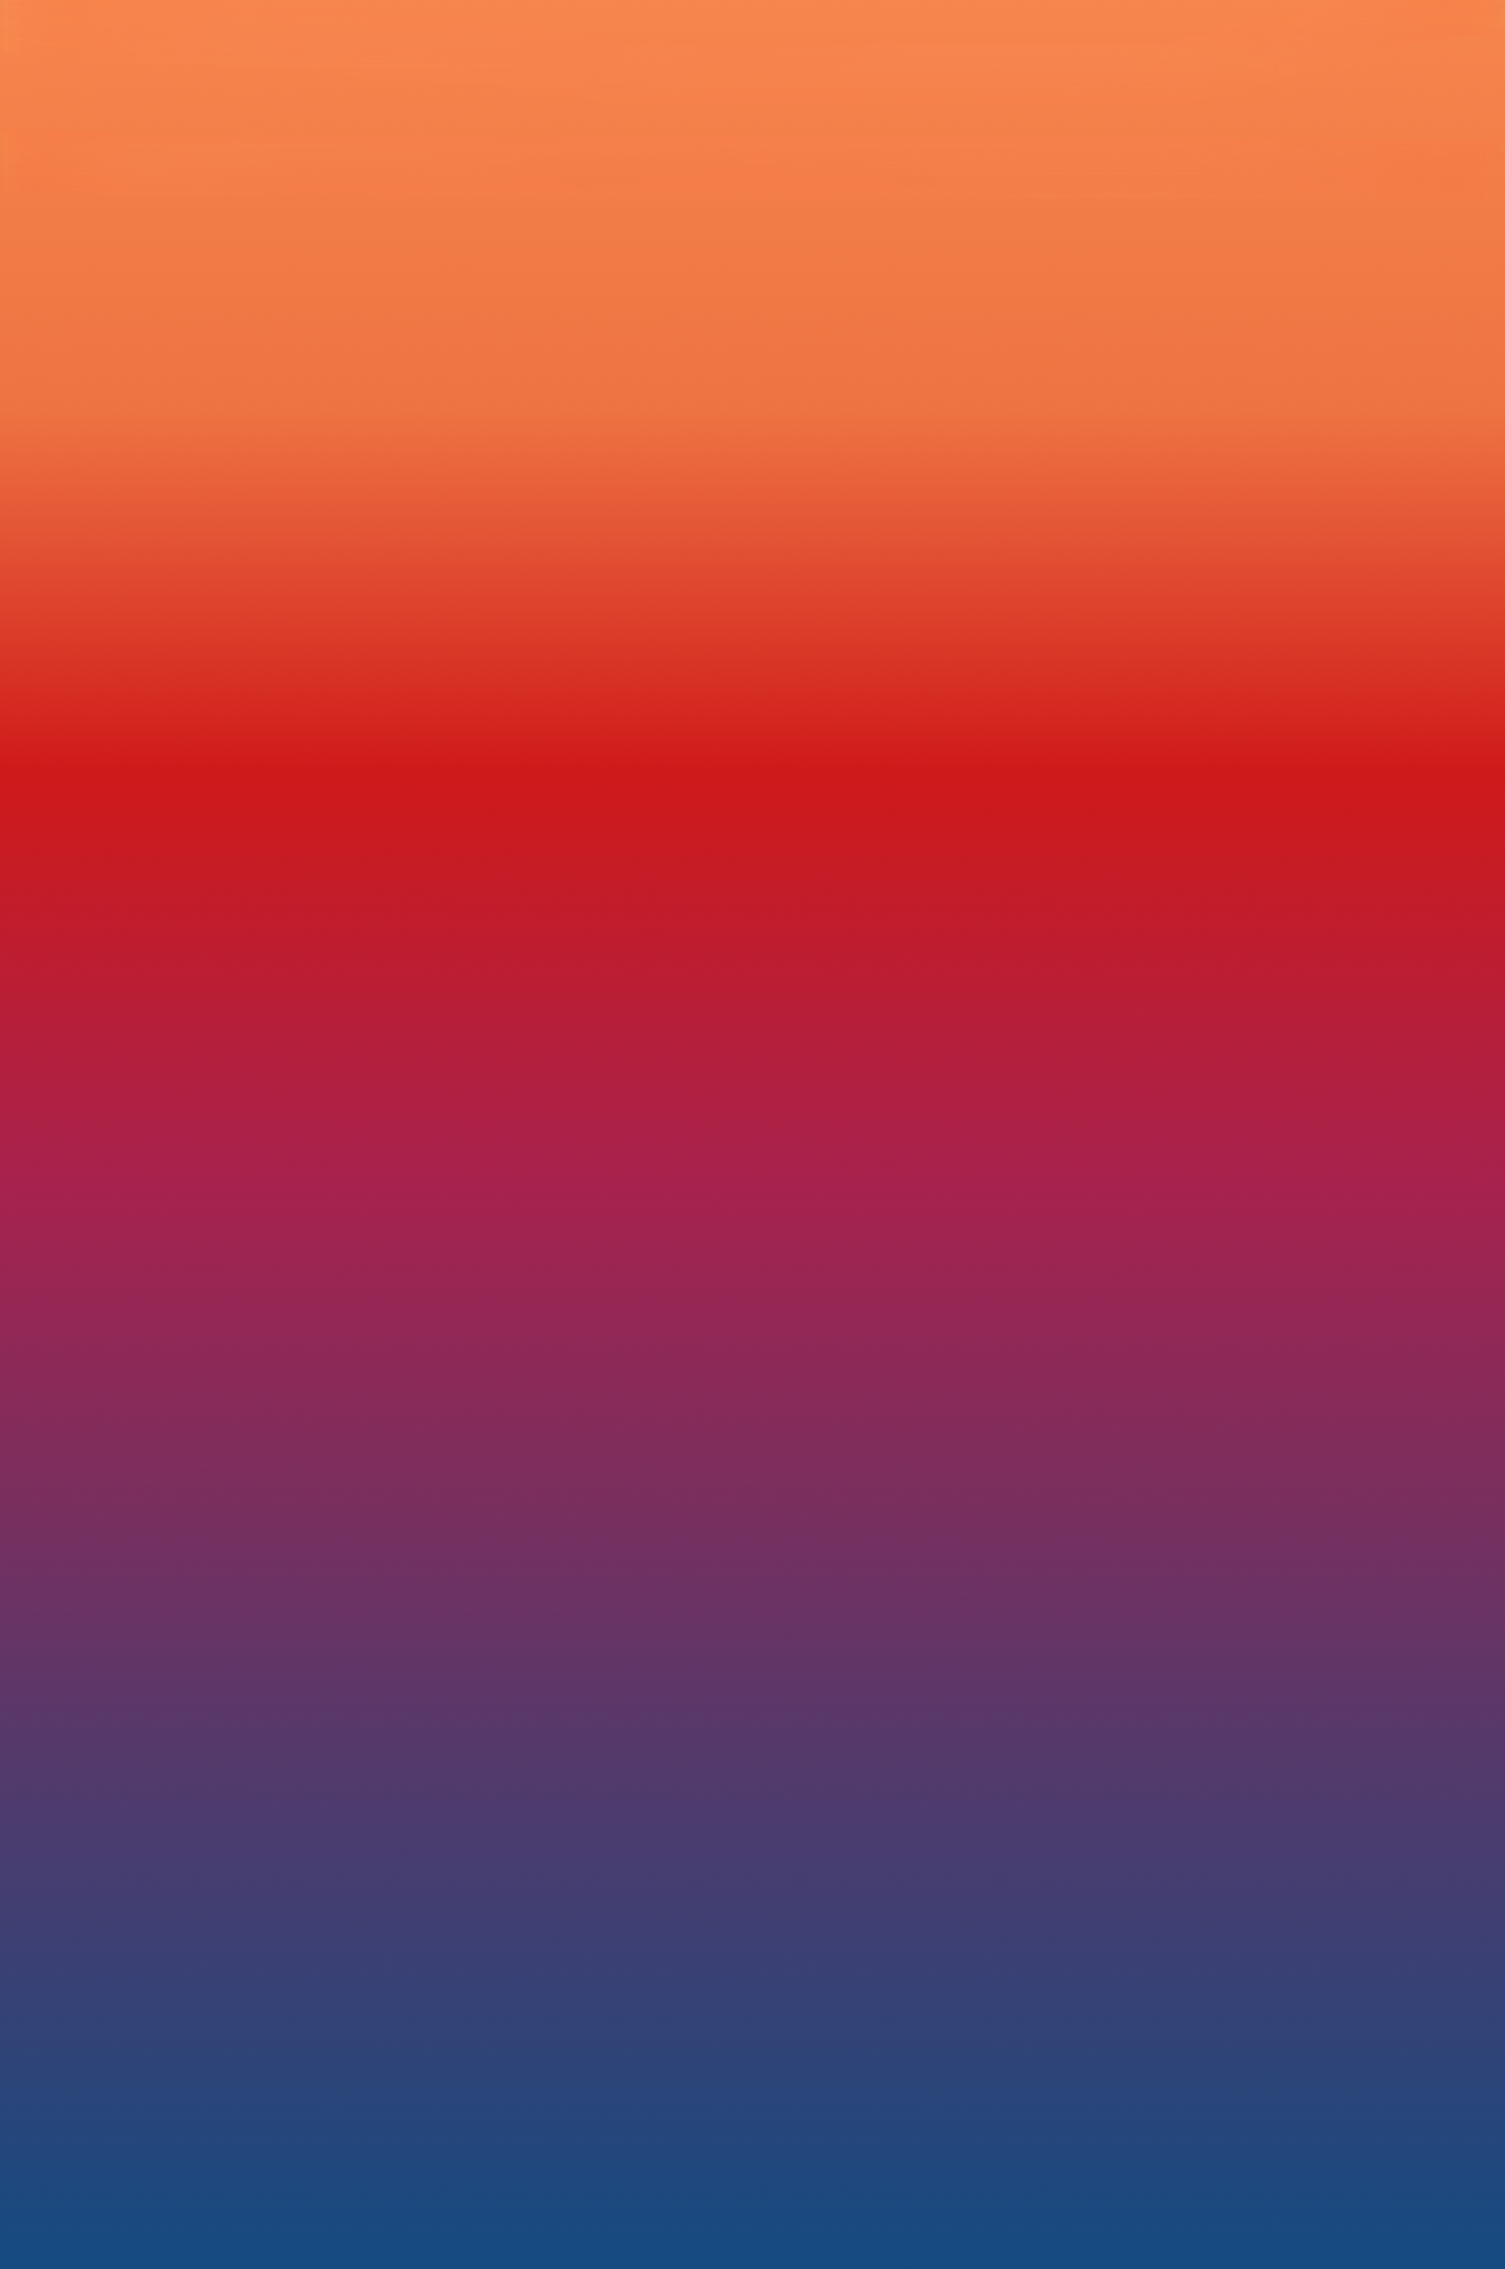
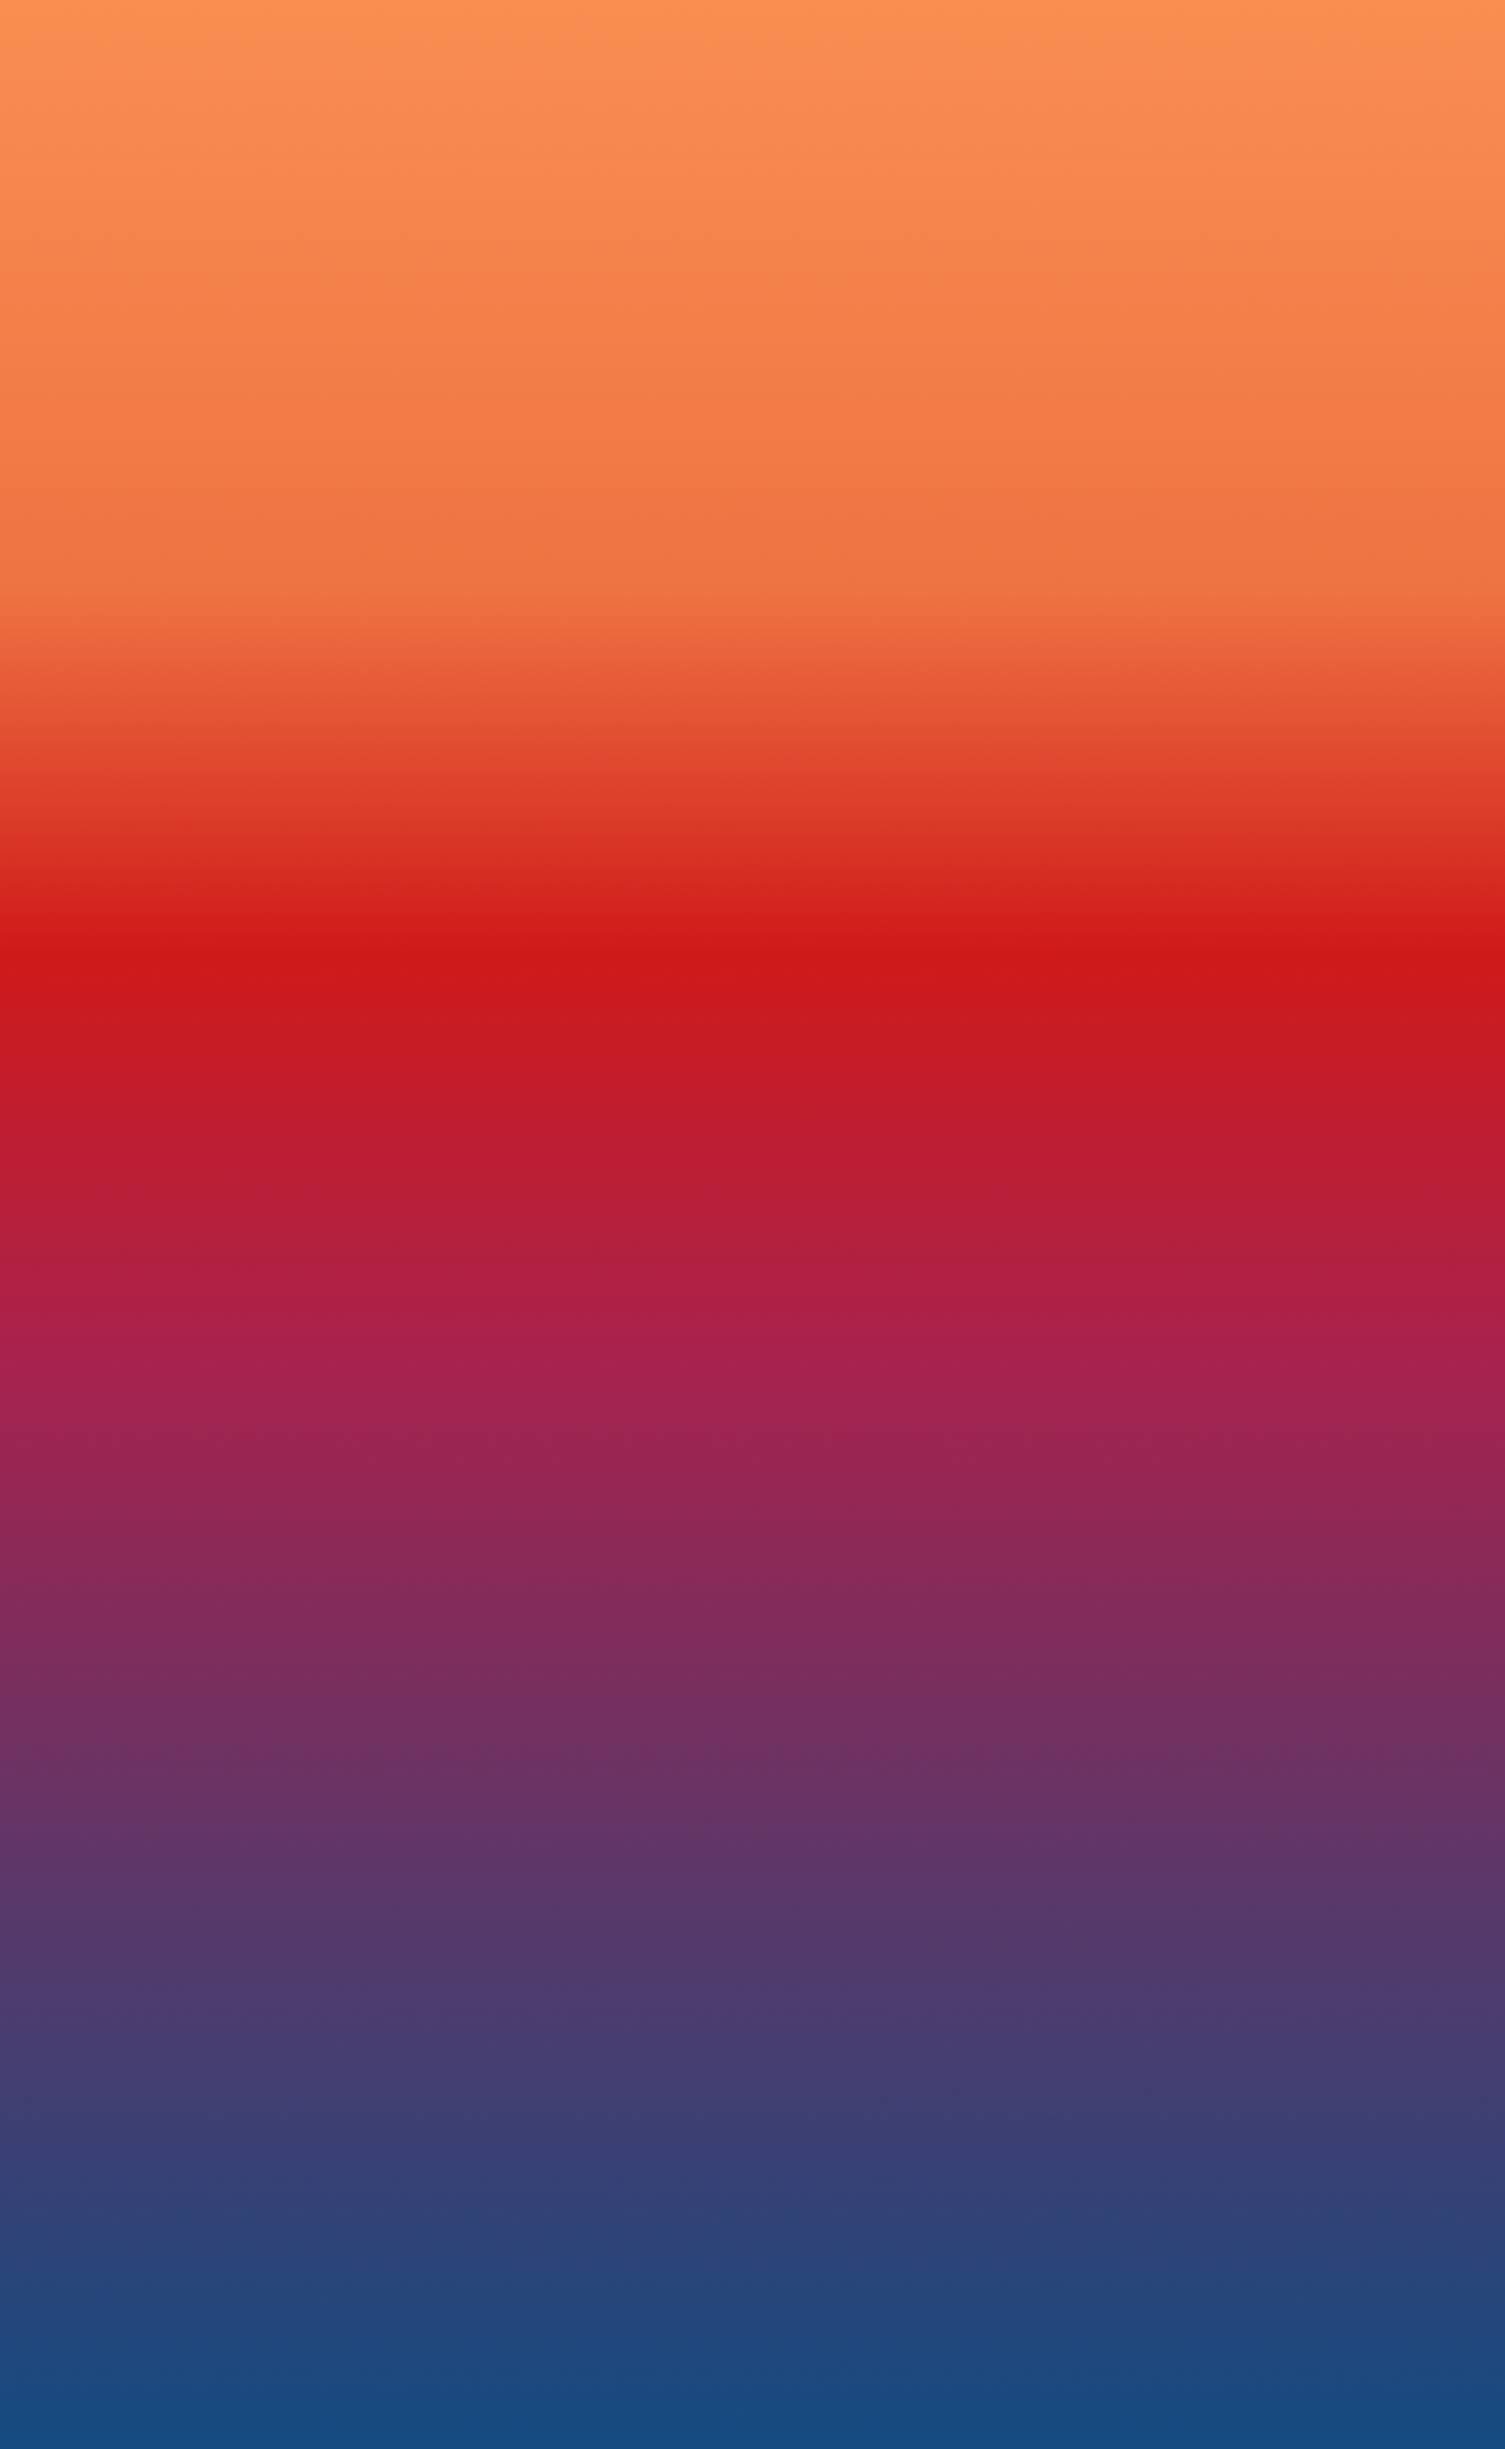
footer added

Changed region(s): [[0.0, 0.2177, 1.0, 0.3732]]

diff --git a/components/homepage/hero-section.tsx b/components/homepage/hero-section.tsx
@@ -2,6 +2,7 @@ import { EventCard } from './event-card';
 import { AboutUsSection } from './about-us-section';
 import { FaqSection } from './faq-section';
 import { HomeHeading } from './hero-heading';
+import { FooterSection } from './footer-section';
 import {Lanyard} from "../lanyard/Lanyard";
 
 export const HeroSection = () => {
@@ -19,25 +20,6 @@ export const HeroSection = () => {
         </div>
       </div>
 
-      <div className='w-full relative -mt-40'>
-        <img
-          src="../../src/assets/homepage/bg_2.png"
-          alt="bg_2"
-          className="w-full object-cover"
-        />
-        <div className="absolute inset-0 flex flex-col text-white text-4xl">
-          <div className='h-full flex flex-col items-center justify-center'>
-            <HomeHeading heading='Featured Events'/>
-            <div className='w-full grid grid-cols-1 md:grid-cols-2 lg:grid-cols-4 gap-4 p-8'>
-              <EventCard />
-              <EventCard />
-              <EventCard />
-              <EventCard />
-            </div>
-          </div>
-        </div>
-      </div>
-
       <div className='w-full relative bg-green-500'>
         <img
           src="../../src/assets/homepage/bg_1.png"
@@ -46,11 +28,23 @@ export const HeroSection = () => {
         />
         <div className="absolute inset-0 bottom-full text-white text-4xl">
           <div className='flex flex-col space-y-12'>
-            <div className='h-full mt-[32rem]'>
+            <div className='h-full flex flex-col items-center justify-center mt-[5rem]'>
+              <HomeHeading heading='Featured Events'/>
+              <div className='w-full grid grid-cols-1 md:grid-cols-2 lg:grid-cols-4 gap-4 p-8'>
+                <EventCard />
+                <EventCard />
+                <EventCard />
+                <EventCard />
+              </div>
+            </div>
+            <div className='h-full mt-[8rem]'>
               <AboutUsSection />
             </div>
-            <div>
+            <div className='h-full mt-[4rem]'>
               <FaqSection />
+            </div>
+            <div>
+              <FooterSection />
             </div>
           </div>
         </div>

diff --git a/components/homepage/footer-section.tsx b/components/homepage/footer-section.tsx
@@ -1,0 +1,23 @@
+export const FooterSection = () => {
+  return (
+    <div className="relative w-full">
+      <div className="relative w-full">
+        <img
+          src="../../src/assets/homepage/footer_1.png"
+          alt="footer_1"
+          className="absolute top-2 left-0 w-full z-0"
+        />
+        <img
+          src="../../src/assets/homepage/footer_2.png"
+          alt="footer_2"
+          className="relative w-full z-10"
+        />
+      </div>
+      <div className="absolute inset-0 flex  text-white text-3xl z-20">
+        <div className="place-self-end p-4">
+        </div>
+      </div>
+    </div>
+  );
+};
+

diff --git a/components/homepage/faq-section.tsx b/components/homepage/faq-section.tsx
@@ -1,9 +1,8 @@
-import React from 'react';
 import { FaqItem } from './faq-accordion';
 
 export const FaqSection = () => {
   return (
-    <div className='grid grid-cols-1 md:grid-cols-2 lg:grid-cols-6 gap-4 p-8'>
+    <div className='grid grid-cols-1 md:grid-cols-2 lg:grid-cols-6 gap-4 mb-16'>
       <div className='w-2xs col-span-2 mx-6 mt-16'>
         <img src="../../src/assets/homepage/genie.png" alt="FAQ 1" className="w-full object-cover" />
       </div>

diff --git a/components/homepage/event-card.tsx b/components/homepage/event-card.tsx
@@ -1,5 +1,3 @@
-import React from 'react';
-
 export const EventCard = ()=>{
   return (
     <div className="w-full flex justify-center mt-20">
